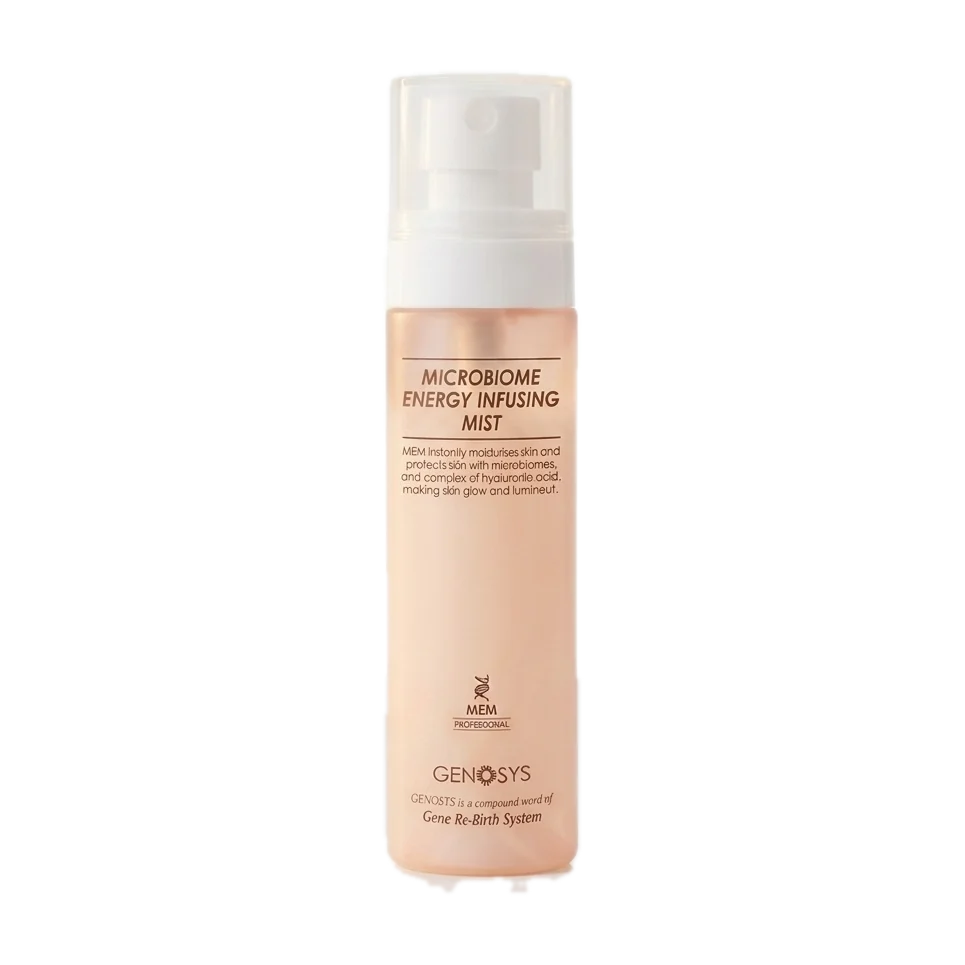
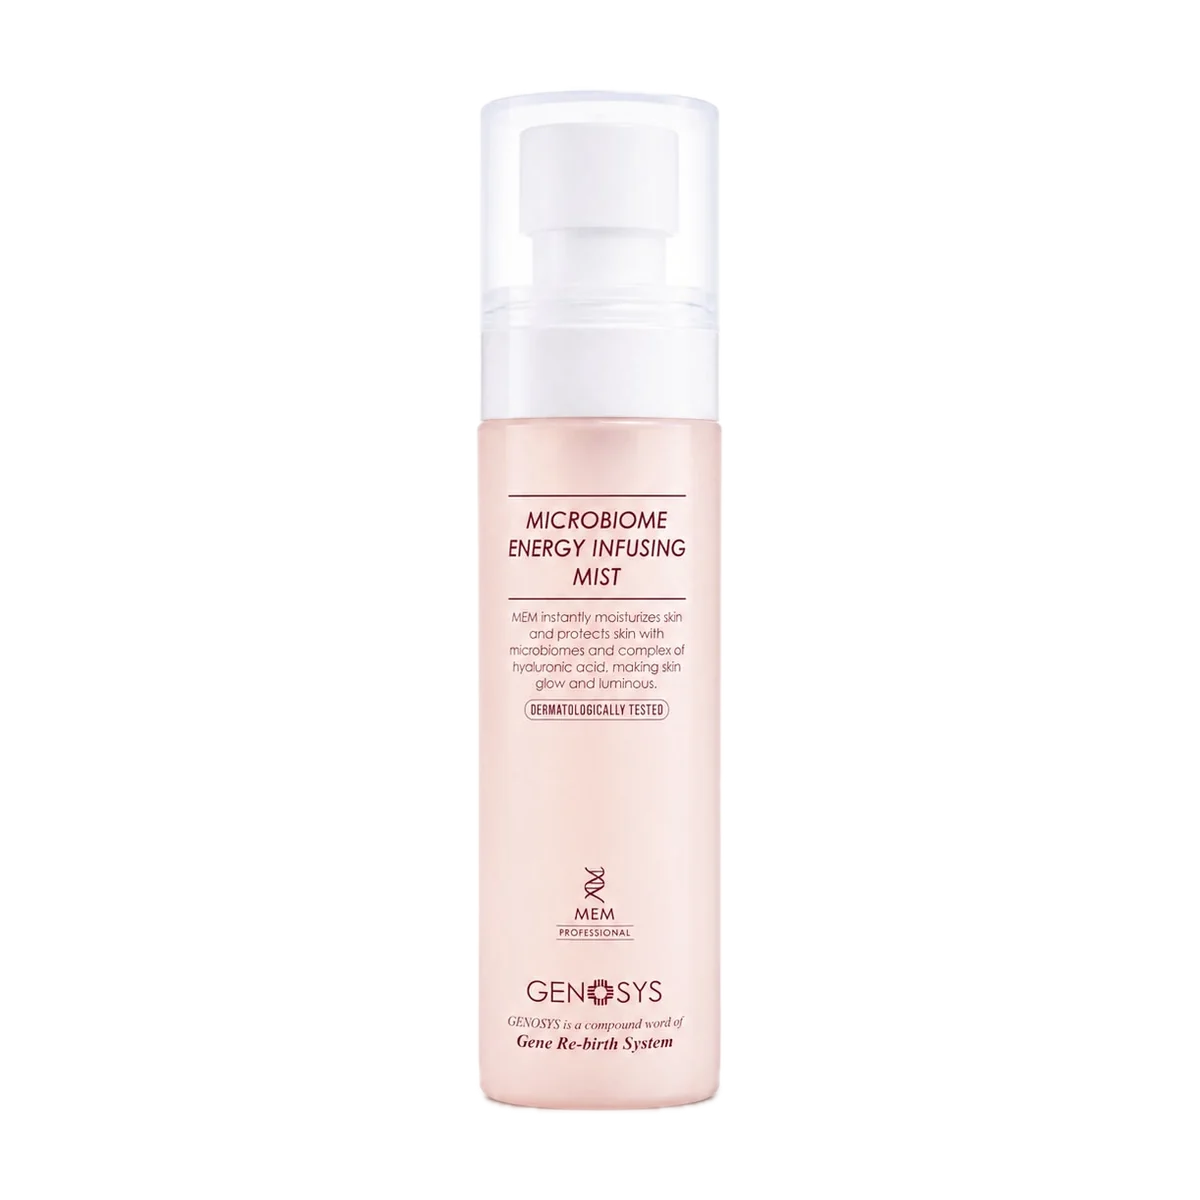
New hero and claim slides for the Microbiome Energy Infusing Mist
The supplied set, renamed into the running order and served from mist_0 so the
old mist/ folder keeps working for anything still pointing at it — including
past order emails, which is why the old files are not deleted.

Two gaps worth knowing about. S1, the opening title slide, was not in the
folder: the WhatsApp export skipped two of its ten files and neither is anywhere
on disk, so the gallery goes live without it and S1 can be dropped in later
without touching anything else. And there are two shake slides — "SHAKE. THEN
SPRAY." is the one in the running order, so "SHAKE. SPRAY. GLOW." sits in the
folder as S7_alt rather than repeating the same point to a shopper.

The closing band's cut-out is rebuilt from the new packshot. It keys off the
photograph's path, so leaving it would have quietly dropped this product back
to an uncut rectangle on the tinted panel.

Changed region(s): [[0.3731, 0.0622, 0.6218, 0.9326], [0.4041, 0.0622, 0.4663, 0.2176]]

diff --git a/scripts/update-mist-gallery-20260825.ts b/scripts/update-mist-gallery-20260825.ts
@@ -1,0 +1,60 @@
+/**
+ * Product 14, MICROBIOME ENERGY INFUSING MIST: new hero and claim slides.
+ *
+ * The set is the one supplied in `mist_0`, renamed into the running order.
+ * S1 — the opening title slide — was not in the folder: the WhatsApp export
+ * skipped two files, and neither is anywhere on disk. The gallery is published
+ * without it and S1 can be dropped in later without touching anything else.
+ *
+ * S7_alt ("SHAKE. SPRAY. GLOW.") is the second of two shake slides and is not
+ * in the requested order, so it stays in the folder unpublished rather than
+ * repeating S7's point.
+ *
+ * The main image is deliberately absent from `images`: both the web gallery and
+ * the mobile app prepend `product.image` themselves.
+ *
+ * Run: npx tsx --env-file=.env.local scripts/update-mist-gallery-20260825.ts
+ */
+
+import { prisma } from '../lib/prisma'
+
+const MAIN = '/images/mist_0/Main.jpeg'
+
+const GALLERY = [
+  '/images/mist_0/S2.jpeg', // NOT A WATER TONER. A SPRAYABLE EMULSION.
+  '/images/mist_0/S3.jpeg', // 1.2% SHEA BUTTER
+  '/images/mist_0/S4.jpeg', // SHEA + FOUR SEED OILS.
+  '/images/mist_0/S5.jpeg', // MICROBIOME + HYALURONIC ACID.
+  '/images/mist_0/S6.jpeg', // TIGHT. DRY. FLAT.
+  '/images/mist_0/S7.jpeg', // SHAKE. THEN SPRAY.
+  '/images/mist_0/S8.jpeg', // MAKEUP. STAYS PUT.
+  '/images/mist_0/Closing.jpeg', // MICROBIOME ENERGY INFUSING MIST — shop
+]
+
+async function main() {
+  const before = await prisma.product.findFirst({
+    where: { productNumber: '14' },
+    select: { id: true, name: true, image: true, images: true },
+  })
+  if (!before) throw new Error('Product 14 not found')
+
+  console.log('before:')
+  console.log('  image :', before.image)
+  console.log('  images:', before.images)
+
+  await prisma.product.update({
+    where: { id: before.id },
+    data: { image: MAIN, images: JSON.stringify(GALLERY) },
+  })
+
+  const after = await prisma.product.findFirst({
+    where: { productNumber: '14' },
+    select: { image: true, images: true },
+  })
+  console.log('\nafter:')
+  console.log('  image :', after?.image)
+  console.log('  images:', after?.images)
+  await prisma.$disconnect()
+}
+
+main()

diff --git a/lib/productCutouts.ts b/lib/productCutouts.ts
@@ -47,7 +47,7 @@ const CUTOUTS: Record<string, string> = {
   // 13 SKIN RENEWAL PEELING SYSTEM (SRS)
   '/images/srs_2_new/main.jpeg': '/images/cutout/13.webp',
   // 14 MICROBIOME ENERGY INFUSING MIST
-  '/images/mist/main2.jpeg': '/images/cutout/14.webp',
+  '/images/mist_0/Main.jpeg': '/images/cutout/14.webp',
   // 15 INTENSIVE PROBLEM CONTROL TONER
   '/images/problem/Main.jpg': '/images/cutout/15.webp',
   // 16 SNOW BOOSTER
